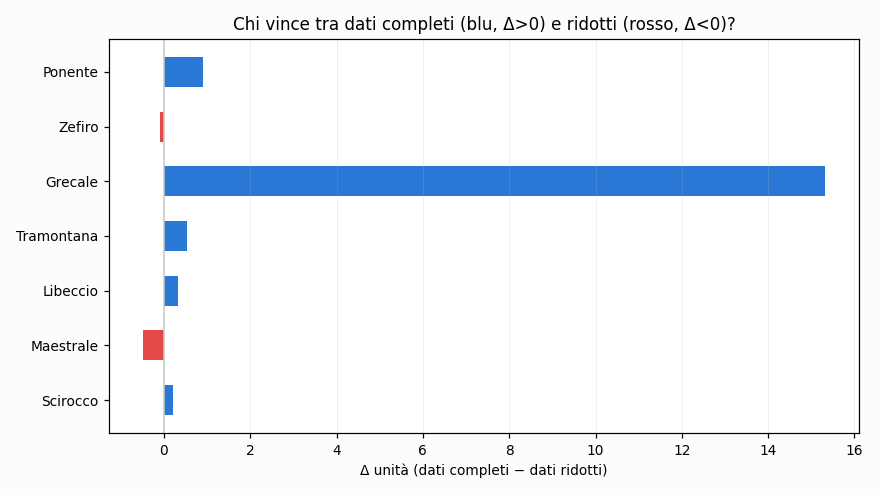
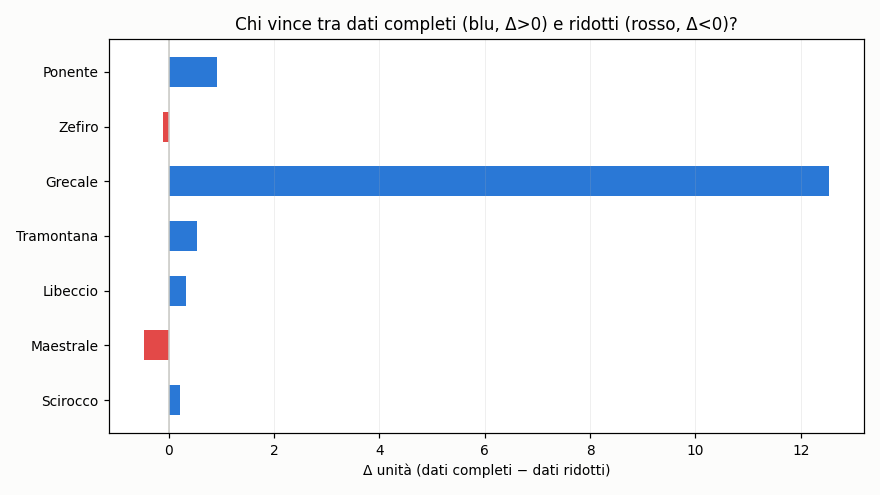
aggiornamento 2026-07-29 15:31 UTC

diff --git a/README.md b/README.md
@@ -37,9 +37,9 @@ scala in unità). Non indichiamo quale.
 
 ## Grafici
 
-![Coppie: dati completi vs ridotti](https://raw.githubusercontent.com/Kitem19/ippica-track-record/main/charts/equity_pairs.png?v=540f0316)
+![Coppie: dati completi vs ridotti](https://raw.githubusercontent.com/Kitem19/ippica-track-record/main/charts/equity_pairs.png?v=d086b7bc)
 
-![Delta per coppia](https://raw.githubusercontent.com/Kitem19/ippica-track-record/main/charts/coppie_delta.png?v=b018abf3)
+![Delta per coppia](https://raw.githubusercontent.com/Kitem19/ippica-track-record/main/charts/coppie_delta.png?v=98ff81de)
 
 ### Come leggere i grafici
 
@@ -60,7 +60,7 @@ _Poche giornate: numeri ancora rumorosi, si conclude a fine fase (31/7)._
 - **Maestrale**: in sostanziale pareggio — troppo presto per dire
 - **Libeccio**: in sostanziale pareggio — troppo presto per dire
 - **Tramontana**: in sostanziale pareggio — troppo presto per dire
-- **Grecale**: dati completi avanti di 15,3u
+- **Grecale**: dati completi avanti di 12,5u
 - **Zefiro**: in sostanziale pareggio — troppo presto per dire
 - **Ponente**: in sostanziale pareggio — troppo presto per dire
 
@@ -68,22 +68,22 @@ _Poche giornate: numeri ancora rumorosi, si conclude a fine fase (31/7)._
 
 | Sistema | Cassa (u) | P/L (u) | Selezioni | Escluse | Stato |
 |---|---|---|---|---|---|
-| Grecale | 15,1 | -4,9 | 360 | 4 | 🟢 |
-| Maestrale-B | 0,0 | -20,0 | 100 | 295 | 🛑 |
-| Ponente | 0,0 | -20,0 | 213 | 62 | 🛑 |
-| Scirocco | 0,0 | -20,1 | 80 | 316 | 🛑 |
-| Grecale-B | 0,0 | -20,2 | 137 | 203 | 🛑 |
-| Scirocco-B | 0,0 | -20,3 | 267 | 7 | 🛑 |
-| Tramontana | 0,0 | -20,3 | 45 | 352 | 🛑 |
-| Zefiro-B | 0,0 | -20,5 | 143 | 100 | 🛑 |
-| Maestrale | 0,0 | -20,5 | 104 | 314 | 🛑 |
-| Zefiro | 0,0 | -20,6 | 268 | 39 | 🛑 |
-| Libeccio | 0,0 | -20,6 | 181 | 219 | 🛑 |
-| Tramontana-B | 0,0 | -20,8 | 324 | 66 | 🛑 |
-| Libeccio-B | 0,0 | -20,9 | 119 | 229 | 🛑 |
-| Ponente-B | 0,0 | -21,0 | 63 | 118 | 🛑 |
+| Grecale | 12,3 | -7,7 | 364 | 4 | 🟢 |
+| Maestrale-B | 0,0 | -20,0 | 100 | 299 | 🛑 |
+| Ponente | 0,0 | -20,0 | 213 | 66 | 🛑 |
+| Scirocco | 0,0 | -20,1 | 80 | 320 | 🛑 |
+| Grecale-B | 0,0 | -20,2 | 137 | 206 | 🛑 |
+| Scirocco-B | 0,0 | -20,3 | 267 | 10 | 🛑 |
+| Tramontana | 0,0 | -20,3 | 45 | 356 | 🛑 |
+| Zefiro-B | 0,0 | -20,5 | 143 | 102 | 🛑 |
+| Maestrale | 0,0 | -20,5 | 104 | 318 | 🛑 |
+| Zefiro | 0,0 | -20,6 | 268 | 42 | 🛑 |
+| Libeccio | 0,0 | -20,6 | 181 | 221 | 🛑 |
+| Tramontana-B | 0,0 | -20,8 | 324 | 70 | 🛑 |
+| Libeccio-B | 0,0 | -20,9 | 119 | 232 | 🛑 |
+| Ponente-B | 0,0 | -21,0 | 63 | 120 | 🛑 |
 
-_Aggiornato: 29/07 16:41_
+_Aggiornato: 29/07 17:31_
 ---
 *Nessuna delle informazioni qui pubblicate costituisce consiglio di gioco.
 Il gioco può causare dipendenza — 18+.*
